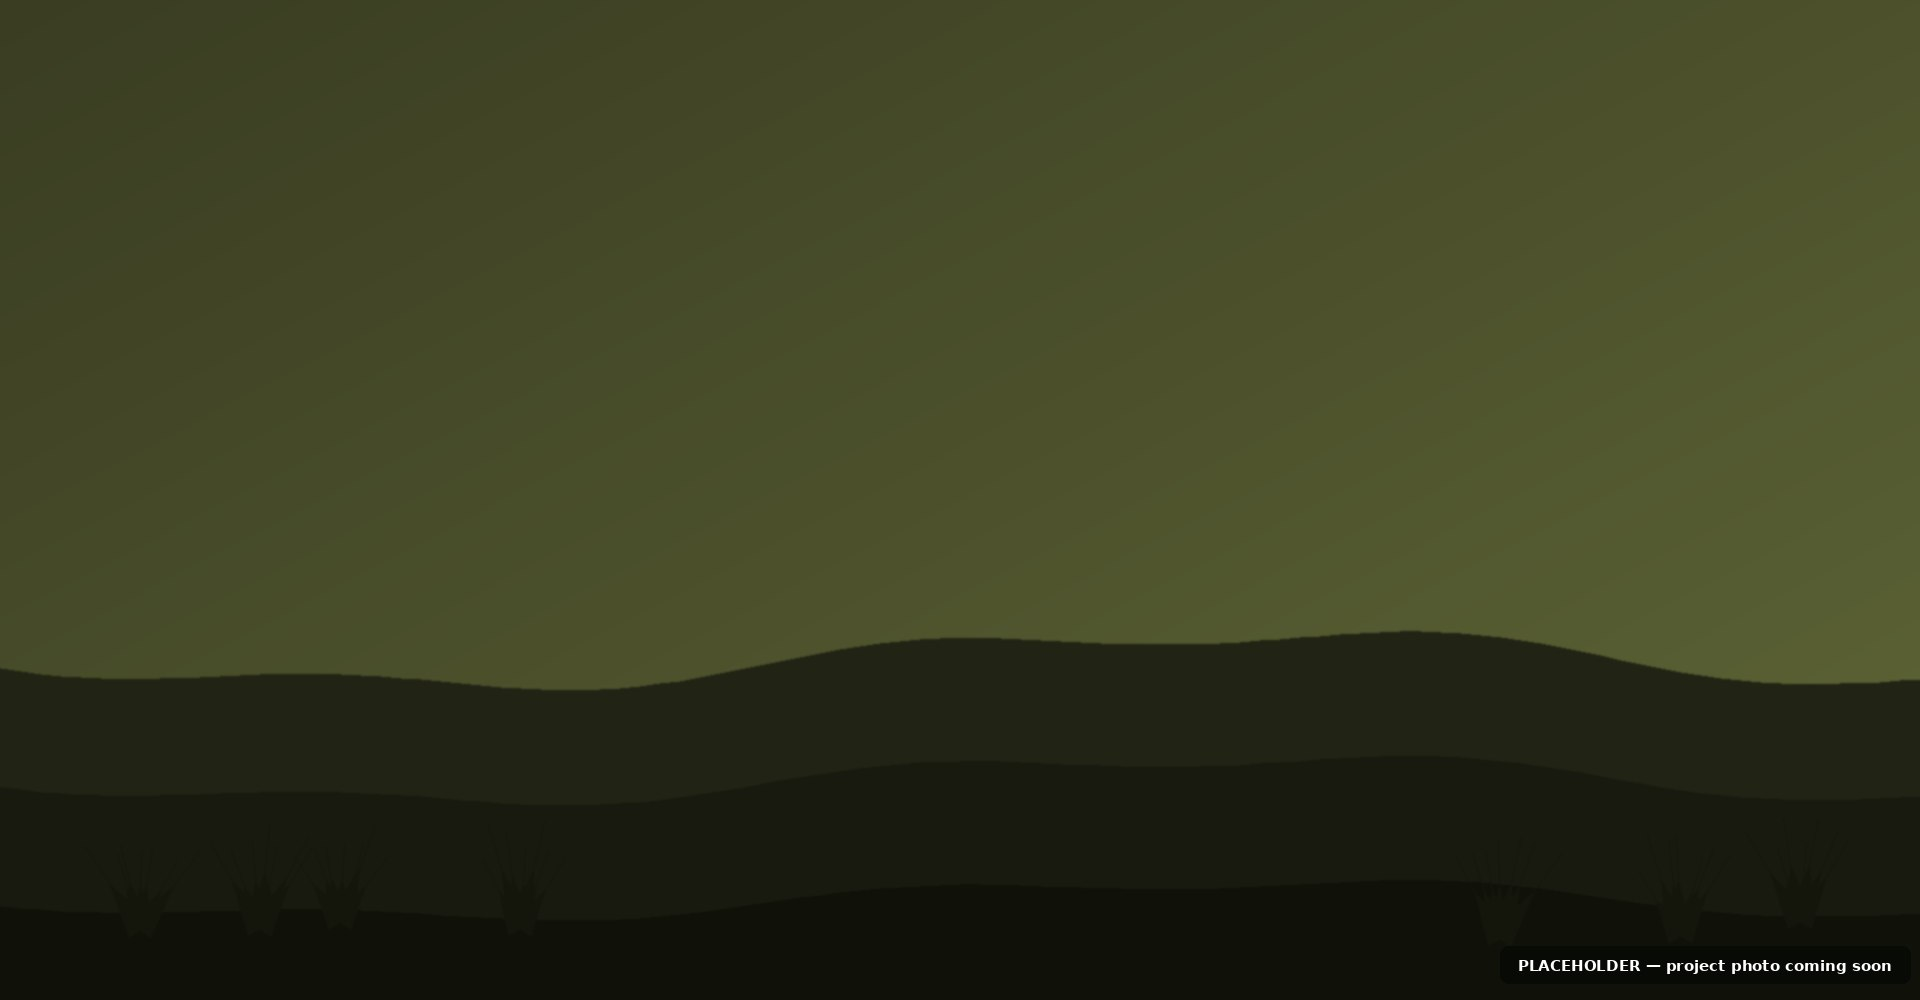
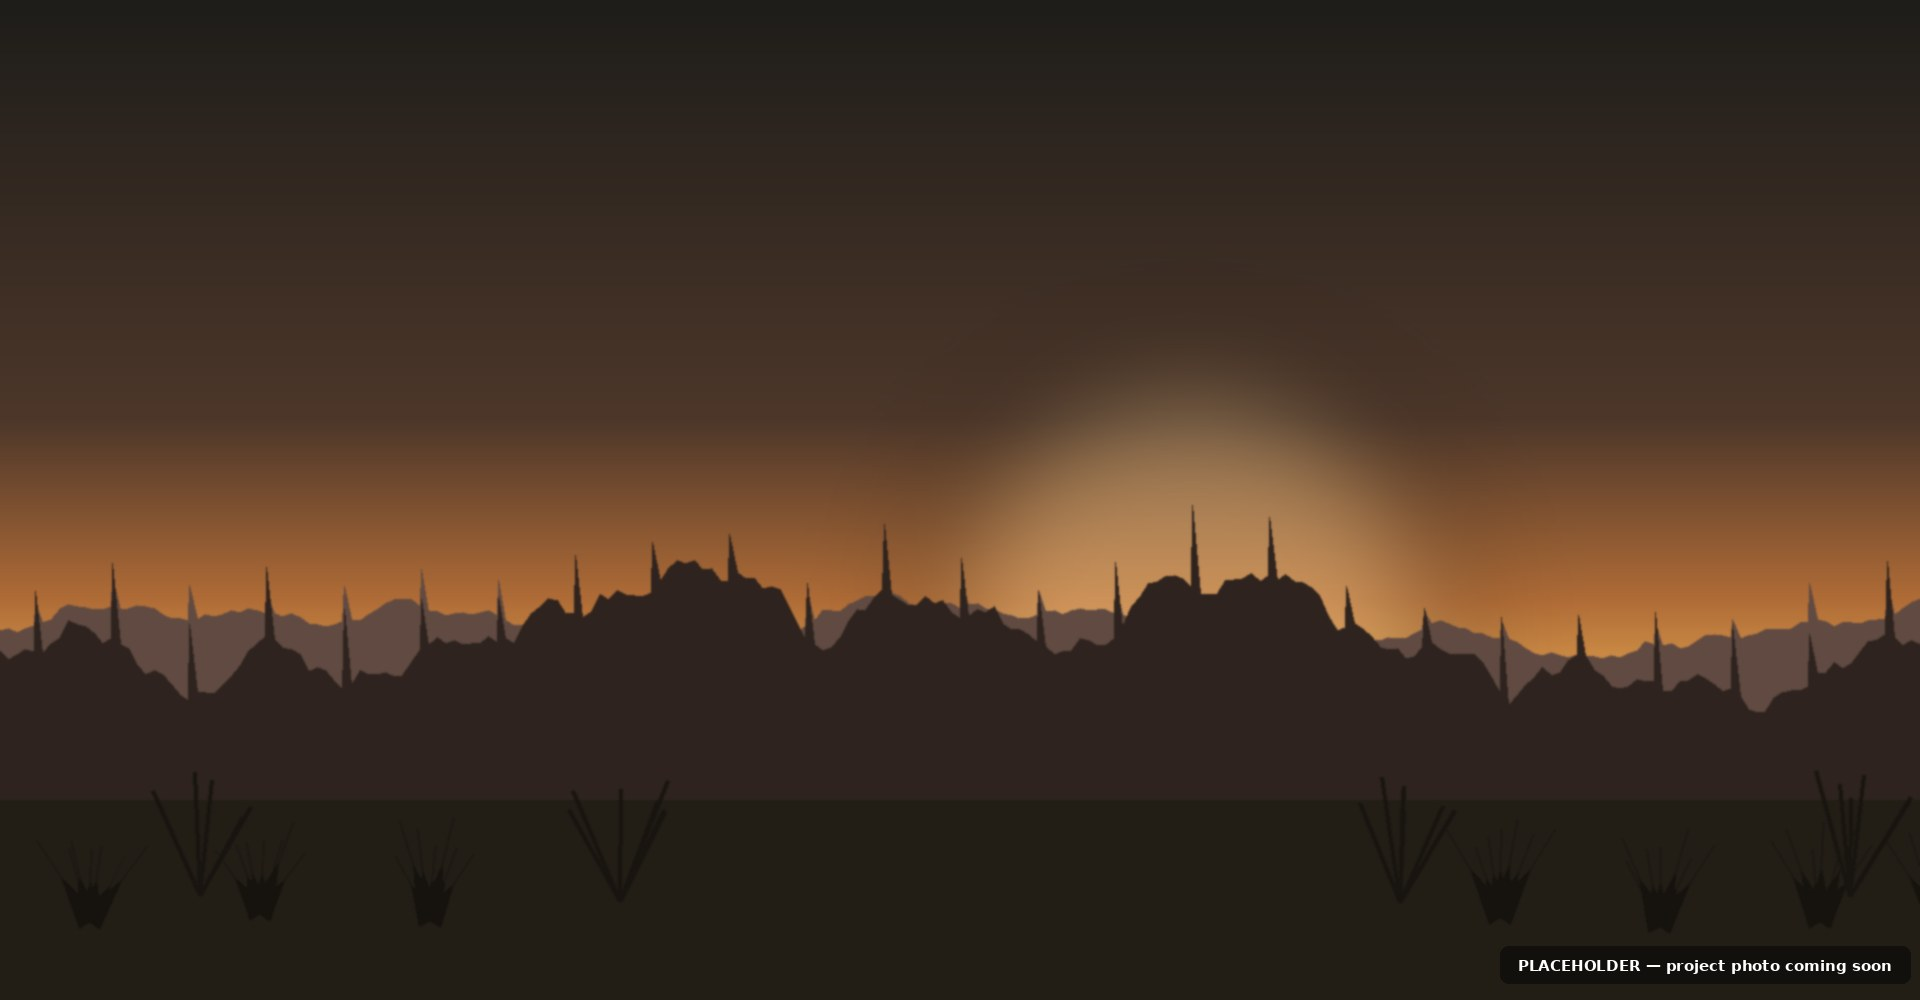
Add files via upload

diff --git a/index.html b/index.html
@@ -5,10 +5,66 @@
 <meta name="viewport" content="width=device-width, initial-scale=1.0">
 <title>GLM Landscaping | Las Cruces, NM Landscape Design &amp; Outdoor Living</title>
 <meta name="description" content="GLM Landscaping designs and builds low-maintenance outdoor spaces in Las Cruces, Anthony &amp; Santa Teresa, NM — landscape design, artificial turf, putting greens, hardscaping, patios &amp; more. Free consultation.">
-<link rel="icon" href="assets/favicon.png">
+<meta name="robots" content="index, follow">
+<!-- PLACEHOLDER DOMAIN: replace glmlandscapes.com below once confirmed -->
+<link rel="canonical" href="https://www.glmlandscapes.com/">
+
+<link rel="icon" type="image/x-icon" href="favicon.ico">
+<link rel="icon" type="image/png" sizes="32x32" href="assets/icons/favicon-32x32.png">
+<link rel="icon" type="image/png" sizes="16x16" href="assets/icons/favicon-16x16.png">
+<link rel="apple-touch-icon" sizes="180x180" href="assets/icons/apple-touch-icon.png">
+<link rel="manifest" href="site.webmanifest">
+<meta name="theme-color" content="#45482A">
+
+<meta property="og:type" content="website">
+<meta property="og:site_name" content="GLM Landscaping">
+<meta property="og:url" content="https://www.glmlandscapes.com/">
+<meta property="og:title" content="GLM Landscaping | Las Cruces, NM Landscape Design &amp; Outdoor Living">
+<meta property="og:description" content="Custom landscape design, artificial turf, putting greens, hardscaping &amp; outdoor lighting for Las Cruces, Anthony &amp; Santa Teresa, NM. Free consultation.">
+<meta property="og:image" content="https://www.glmlandscapes.com/assets/img/hero_bg.jpg">
+<meta property="og:locale" content="en_US">
+<meta name="twitter:card" content="summary_large_image">
+<meta name="twitter:title" content="GLM Landscaping | Las Cruces, NM Landscape Design &amp; Outdoor Living">
+<meta name="twitter:description" content="Custom landscape design, artificial turf, putting greens, hardscaping &amp; outdoor lighting for Las Cruces, Anthony &amp; Santa Teresa, NM.">
+<meta name="twitter:image" content="https://www.glmlandscapes.com/assets/img/hero_bg.jpg">
+
 <link rel="preconnect" href="https://fonts.googleapis.com">
 <link href="https://fonts.googleapis.com/css2?family=Fraunces:wght@600;700&family=Work+Sans:wght@400;500;600;700&display=swap" rel="stylesheet">
 <link rel="stylesheet" href="assets/styles.css">
+
+<script type="application/ld+json">
+{
+  "@context": "https://schema.org",
+  "@type": "HomeAndConstructionBusiness",
+  "name": "GLM Landscaping",
+  "alternateName": "GLM Landscape LLC",
+  "image": "https://www.glmlandscapes.com/assets/img/hero_bg.jpg",
+  "logo": "https://www.glmlandscapes.com/assets/icons/android-chrome-512x512.png",
+  "url": "https://www.glmlandscapes.com/",
+  "telephone": "+15754152781",
+  "email": "Landon@glmlandscapes.com",
+  "address": {
+    "@type": "PostalAddress",
+    "streetAddress": "224 Oxford Dr",
+    "addressLocality": "Las Cruces",
+    "addressRegion": "NM",
+    "postalCode": "88005",
+    "addressCountry": "US"
+  },
+  "areaServed": [
+    { "@type": "City", "name": "Las Cruces, NM" },
+    { "@type": "City", "name": "Anthony, NM" },
+    { "@type": "City", "name": "Santa Teresa, NM" }
+  ],
+  "openingHoursSpecification": {
+    "@type": "OpeningHoursSpecification",
+    "dayOfWeek": ["Monday", "Tuesday", "Wednesday", "Thursday", "Friday"],
+    "opens": "08:00",
+    "closes": "17:00"
+  },
+  "priceRange": "$$"
+}
+</script>
 </head>
 <body>
 

diff --git a/services.html b/services.html
@@ -5,10 +5,66 @@
 <meta name="viewport" content="width=device-width, initial-scale=1.0">
 <title>Services | GLM Landscaping — Las Cruces, NM</title>
 <meta name="description" content="Landscape design, artificial turf &amp; putting greens, hardscaping, irrigation, lighting, planting, and yard maintenance — GLM Landscaping serves Las Cruces, Anthony &amp; Santa Teresa, NM.">
-<link rel="icon" href="assets/favicon.png">
+<meta name="robots" content="index, follow">
+<!-- PLACEHOLDER DOMAIN: replace glmlandscapes.com below once confirmed -->
+<link rel="canonical" href="https://www.glmlandscapes.com/services.html">
+
+<link rel="icon" type="image/x-icon" href="favicon.ico">
+<link rel="icon" type="image/png" sizes="32x32" href="assets/icons/favicon-32x32.png">
+<link rel="icon" type="image/png" sizes="16x16" href="assets/icons/favicon-16x16.png">
+<link rel="apple-touch-icon" sizes="180x180" href="assets/icons/apple-touch-icon.png">
+<link rel="manifest" href="site.webmanifest">
+<meta name="theme-color" content="#45482A">
+
+<meta property="og:type" content="website">
+<meta property="og:site_name" content="GLM Landscaping">
+<meta property="og:url" content="https://www.glmlandscapes.com/services.html">
+<meta property="og:title" content="Services | GLM Landscaping — Las Cruces, NM">
+<meta property="og:description" content="Landscape design, artificial turf &amp; putting greens, hardscaping, irrigation, lighting, planting, and yard maintenance in Las Cruces, NM.">
+<meta property="og:image" content="https://www.glmlandscapes.com/assets/img/gallery_hardscape.jpg">
+<meta property="og:locale" content="en_US">
+<meta name="twitter:card" content="summary_large_image">
+<meta name="twitter:title" content="Services | GLM Landscaping — Las Cruces, NM">
+<meta name="twitter:description" content="Landscape design, artificial turf &amp; putting greens, hardscaping, irrigation, lighting &amp; maintenance.">
+<meta name="twitter:image" content="https://www.glmlandscapes.com/assets/img/gallery_hardscape.jpg">
+
 <link rel="preconnect" href="https://fonts.googleapis.com">
 <link href="https://fonts.googleapis.com/css2?family=Fraunces:wght@600;700&family=Work+Sans:wght@400;500;600;700&display=swap" rel="stylesheet">
 <link rel="stylesheet" href="assets/styles.css">
+
+<script type="application/ld+json">
+{
+  "@context": "https://schema.org",
+  "@type": "HomeAndConstructionBusiness",
+  "name": "GLM Landscaping",
+  "alternateName": "GLM Landscape LLC",
+  "image": "https://www.glmlandscapes.com/assets/img/hero_bg.jpg",
+  "logo": "https://www.glmlandscapes.com/assets/icons/android-chrome-512x512.png",
+  "url": "https://www.glmlandscapes.com/",
+  "telephone": "+15754152781",
+  "email": "Landon@glmlandscapes.com",
+  "address": {
+    "@type": "PostalAddress",
+    "streetAddress": "224 Oxford Dr",
+    "addressLocality": "Las Cruces",
+    "addressRegion": "NM",
+    "postalCode": "88005",
+    "addressCountry": "US"
+  },
+  "areaServed": [
+    { "@type": "City", "name": "Las Cruces, NM" },
+    { "@type": "City", "name": "Anthony, NM" },
+    { "@type": "City", "name": "Santa Teresa, NM" }
+  ],
+  "openingHoursSpecification": {
+    "@type": "OpeningHoursSpecification",
+    "dayOfWeek": ["Monday", "Tuesday", "Wednesday", "Thursday", "Friday"],
+    "opens": "08:00",
+    "closes": "17:00"
+  },
+  "priceRange": "$$"
+}
+</script>
 </head>
 <body>
 

diff --git a/about.html b/about.html
@@ -5,10 +5,66 @@
 <meta name="viewport" content="width=device-width, initial-scale=1.0">
 <title>About Us | GLM Landscaping — Las Cruces, NM</title>
 <meta name="description" content="Meet Landon &amp; Garret Moser, owners of GLM Landscaping — a Las Cruces, NM landscape design &amp; outdoor living company built on honest communication and quality craftsmanship.">
-<link rel="icon" href="assets/favicon.png">
+<meta name="robots" content="index, follow">
+<!-- PLACEHOLDER DOMAIN: replace glmlandscapes.com below once confirmed -->
+<link rel="canonical" href="https://www.glmlandscapes.com/about.html">
+
+<link rel="icon" type="image/x-icon" href="favicon.ico">
+<link rel="icon" type="image/png" sizes="32x32" href="assets/icons/favicon-32x32.png">
+<link rel="icon" type="image/png" sizes="16x16" href="assets/icons/favicon-16x16.png">
+<link rel="apple-touch-icon" sizes="180x180" href="assets/icons/apple-touch-icon.png">
+<link rel="manifest" href="site.webmanifest">
+<meta name="theme-color" content="#45482A">
+
+<meta property="og:type" content="website">
+<meta property="og:site_name" content="GLM Landscaping">
+<meta property="og:url" content="https://www.glmlandscapes.com/about.html">
+<meta property="og:title" content="About Us | GLM Landscaping — Las Cruces, NM">
+<meta property="og:description" content="Meet Landon &amp; Garret Moser, owners of GLM Landscaping — built on honest communication and quality craftsmanship.">
+<meta property="og:image" content="https://www.glmlandscapes.com/assets/img/about_owners.jpg">
+<meta property="og:locale" content="en_US">
+<meta name="twitter:card" content="summary_large_image">
+<meta name="twitter:title" content="About Us | GLM Landscaping — Las Cruces, NM">
+<meta name="twitter:description" content="Meet Landon &amp; Garret Moser, owners of GLM Landscaping.">
+<meta name="twitter:image" content="https://www.glmlandscapes.com/assets/img/about_owners.jpg">
+
 <link rel="preconnect" href="https://fonts.googleapis.com">
 <link href="https://fonts.googleapis.com/css2?family=Fraunces:wght@600;700&family=Work+Sans:wght@400;500;600;700&display=swap" rel="stylesheet">
 <link rel="stylesheet" href="assets/styles.css">
+
+<script type="application/ld+json">
+{
+  "@context": "https://schema.org",
+  "@type": "HomeAndConstructionBusiness",
+  "name": "GLM Landscaping",
+  "alternateName": "GLM Landscape LLC",
+  "image": "https://www.glmlandscapes.com/assets/img/hero_bg.jpg",
+  "logo": "https://www.glmlandscapes.com/assets/icons/android-chrome-512x512.png",
+  "url": "https://www.glmlandscapes.com/",
+  "telephone": "+15754152781",
+  "email": "Landon@glmlandscapes.com",
+  "address": {
+    "@type": "PostalAddress",
+    "streetAddress": "224 Oxford Dr",
+    "addressLocality": "Las Cruces",
+    "addressRegion": "NM",
+    "postalCode": "88005",
+    "addressCountry": "US"
+  },
+  "areaServed": [
+    { "@type": "City", "name": "Las Cruces, NM" },
+    { "@type": "City", "name": "Anthony, NM" },
+    { "@type": "City", "name": "Santa Teresa, NM" }
+  ],
+  "openingHoursSpecification": {
+    "@type": "OpeningHoursSpecification",
+    "dayOfWeek": ["Monday", "Tuesday", "Wednesday", "Thursday", "Friday"],
+    "opens": "08:00",
+    "closes": "17:00"
+  },
+  "priceRange": "$$"
+}
+</script>
 </head>
 <body>
 

diff --git a/contact.html b/contact.html
@@ -5,10 +5,66 @@
 <meta name="viewport" content="width=device-width, initial-scale=1.0">
 <title>Contact &amp; Free Estimate | GLM Landscaping — Las Cruces, NM</title>
 <meta name="description" content="Schedule your free landscape consultation with GLM Landscaping — serving Las Cruces, Anthony &amp; Santa Teresa, NM.">
-<link rel="icon" href="assets/favicon.png">
+<meta name="robots" content="index, follow">
+<!-- PLACEHOLDER DOMAIN: replace glmlandscapes.com below once confirmed -->
+<link rel="canonical" href="https://www.glmlandscapes.com/contact.html">
+
+<link rel="icon" type="image/x-icon" href="favicon.ico">
+<link rel="icon" type="image/png" sizes="32x32" href="assets/icons/favicon-32x32.png">
+<link rel="icon" type="image/png" sizes="16x16" href="assets/icons/favicon-16x16.png">
+<link rel="apple-touch-icon" sizes="180x180" href="assets/icons/apple-touch-icon.png">
+<link rel="manifest" href="site.webmanifest">
+<meta name="theme-color" content="#45482A">
+
+<meta property="og:type" content="website">
+<meta property="og:site_name" content="GLM Landscaping">
+<meta property="og:url" content="https://www.glmlandscapes.com/contact.html">
+<meta property="og:title" content="Contact &amp; Free Estimate | GLM Landscaping — Las Cruces, NM">
+<meta property="og:description" content="Schedule your free landscape consultation with GLM Landscaping — serving Las Cruces, Anthony &amp; Santa Teresa, NM.">
+<meta property="og:image" content="https://www.glmlandscapes.com/assets/img/hero_bg.jpg">
+<meta property="og:locale" content="en_US">
+<meta name="twitter:card" content="summary_large_image">
+<meta name="twitter:title" content="Contact &amp; Free Estimate | GLM Landscaping — Las Cruces, NM">
+<meta name="twitter:description" content="Schedule your free landscape consultation with GLM Landscaping.">
+<meta name="twitter:image" content="https://www.glmlandscapes.com/assets/img/hero_bg.jpg">
+
 <link rel="preconnect" href="https://fonts.googleapis.com">
 <link href="https://fonts.googleapis.com/css2?family=Fraunces:wght@600;700&family=Work+Sans:wght@400;500;600;700&display=swap" rel="stylesheet">
 <link rel="stylesheet" href="assets/styles.css">
+
+<script type="application/ld+json">
+{
+  "@context": "https://schema.org",
+  "@type": "HomeAndConstructionBusiness",
+  "name": "GLM Landscaping",
+  "alternateName": "GLM Landscape LLC",
+  "image": "https://www.glmlandscapes.com/assets/img/hero_bg.jpg",
+  "logo": "https://www.glmlandscapes.com/assets/icons/android-chrome-512x512.png",
+  "url": "https://www.glmlandscapes.com/",
+  "telephone": "+15754152781",
+  "email": "Landon@glmlandscapes.com",
+  "address": {
+    "@type": "PostalAddress",
+    "streetAddress": "224 Oxford Dr",
+    "addressLocality": "Las Cruces",
+    "addressRegion": "NM",
+    "postalCode": "88005",
+    "addressCountry": "US"
+  },
+  "areaServed": [
+    { "@type": "City", "name": "Las Cruces, NM" },
+    { "@type": "City", "name": "Anthony, NM" },
+    { "@type": "City", "name": "Santa Teresa, NM" }
+  ],
+  "openingHoursSpecification": {
+    "@type": "OpeningHoursSpecification",
+    "dayOfWeek": ["Monday", "Tuesday", "Wednesday", "Thursday", "Friday"],
+    "opens": "08:00",
+    "closes": "17:00"
+  },
+  "priceRange": "$$"
+}
+</script>
 </head>
 <body>
 

diff --git a/gallery.html b/gallery.html
@@ -5,10 +5,66 @@
 <meta name="viewport" content="width=device-width, initial-scale=1.0">
 <title>Our Work | GLM Landscaping — Las Cruces, NM</title>
 <meta name="description" content="See the kinds of landscape design, turf, and hardscape projects GLM Landscaping builds for Las Cruces, NM homeowners.">
-<link rel="icon" href="assets/favicon.png">
+<meta name="robots" content="index, follow">
+<!-- PLACEHOLDER DOMAIN: replace glmlandscapes.com below once confirmed -->
+<link rel="canonical" href="https://www.glmlandscapes.com/gallery.html">
+
+<link rel="icon" type="image/x-icon" href="favicon.ico">
+<link rel="icon" type="image/png" sizes="32x32" href="assets/icons/favicon-32x32.png">
+<link rel="icon" type="image/png" sizes="16x16" href="assets/icons/favicon-16x16.png">
+<link rel="apple-touch-icon" sizes="180x180" href="assets/icons/apple-touch-icon.png">
+<link rel="manifest" href="site.webmanifest">
+<meta name="theme-color" content="#45482A">
+
+<meta property="og:type" content="website">
+<meta property="og:site_name" content="GLM Landscaping">
+<meta property="og:url" content="https://www.glmlandscapes.com/gallery.html">
+<meta property="og:title" content="Our Work | GLM Landscaping — Las Cruces, NM">
+<meta property="og:description" content="See the kinds of landscape design, turf, and hardscape projects GLM Landscaping builds for Las Cruces, NM homeowners.">
+<meta property="og:image" content="https://www.glmlandscapes.com/assets/img/gallery_design.jpg">
+<meta property="og:locale" content="en_US">
+<meta name="twitter:card" content="summary_large_image">
+<meta name="twitter:title" content="Our Work | GLM Landscaping — Las Cruces, NM">
+<meta name="twitter:description" content="Landscape design, turf, and hardscape projects for Las Cruces, NM homeowners.">
+<meta name="twitter:image" content="https://www.glmlandscapes.com/assets/img/gallery_design.jpg">
+
 <link rel="preconnect" href="https://fonts.googleapis.com">
 <link href="https://fonts.googleapis.com/css2?family=Fraunces:wght@600;700&family=Work+Sans:wght@400;500;600;700&display=swap" rel="stylesheet">
 <link rel="stylesheet" href="assets/styles.css">
+
+<script type="application/ld+json">
+{
+  "@context": "https://schema.org",
+  "@type": "HomeAndConstructionBusiness",
+  "name": "GLM Landscaping",
+  "alternateName": "GLM Landscape LLC",
+  "image": "https://www.glmlandscapes.com/assets/img/hero_bg.jpg",
+  "logo": "https://www.glmlandscapes.com/assets/icons/android-chrome-512x512.png",
+  "url": "https://www.glmlandscapes.com/",
+  "telephone": "+15754152781",
+  "email": "Landon@glmlandscapes.com",
+  "address": {
+    "@type": "PostalAddress",
+    "streetAddress": "224 Oxford Dr",
+    "addressLocality": "Las Cruces",
+    "addressRegion": "NM",
+    "postalCode": "88005",
+    "addressCountry": "US"
+  },
+  "areaServed": [
+    { "@type": "City", "name": "Las Cruces, NM" },
+    { "@type": "City", "name": "Anthony, NM" },
+    { "@type": "City", "name": "Santa Teresa, NM" }
+  ],
+  "openingHoursSpecification": {
+    "@type": "OpeningHoursSpecification",
+    "dayOfWeek": ["Monday", "Tuesday", "Wednesday", "Thursday", "Friday"],
+    "opens": "08:00",
+    "closes": "17:00"
+  },
+  "priceRange": "$$"
+}
+</script>
 </head>
 <body>
 
